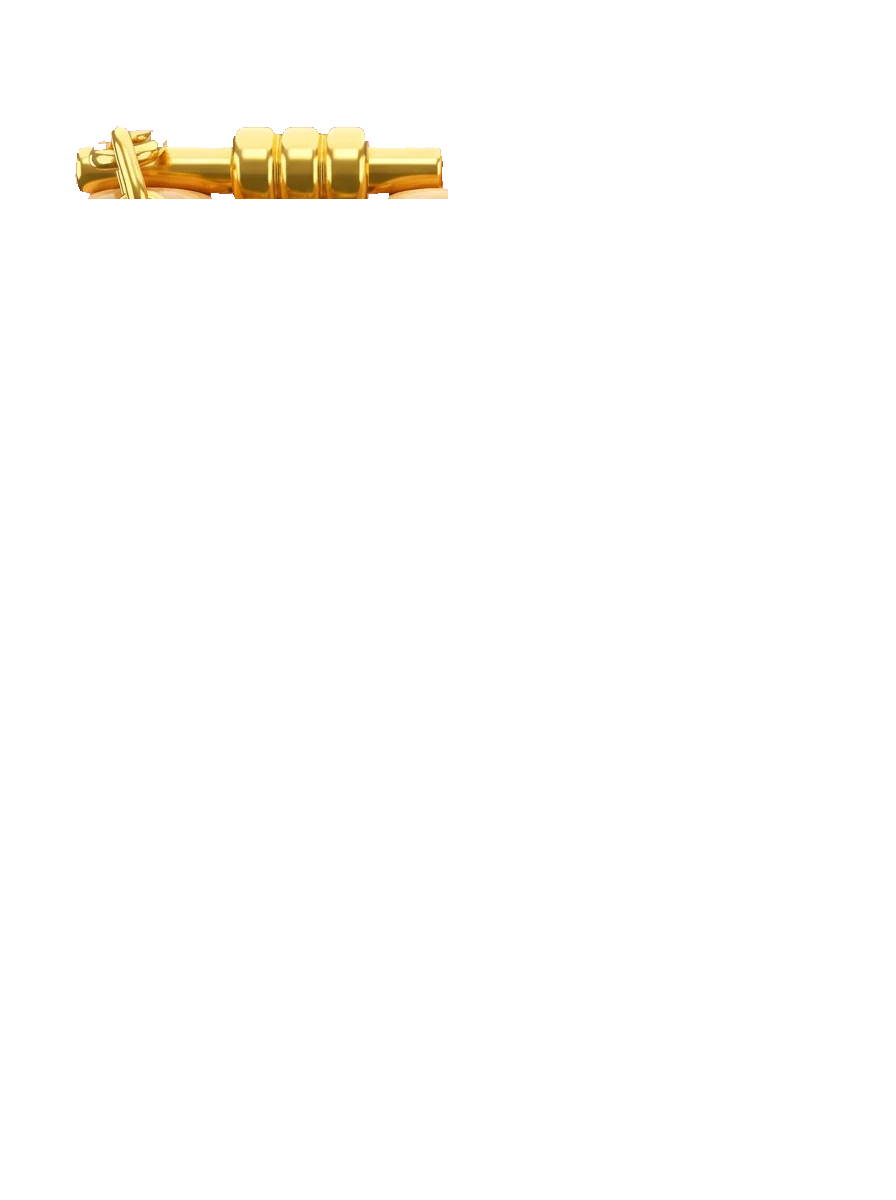
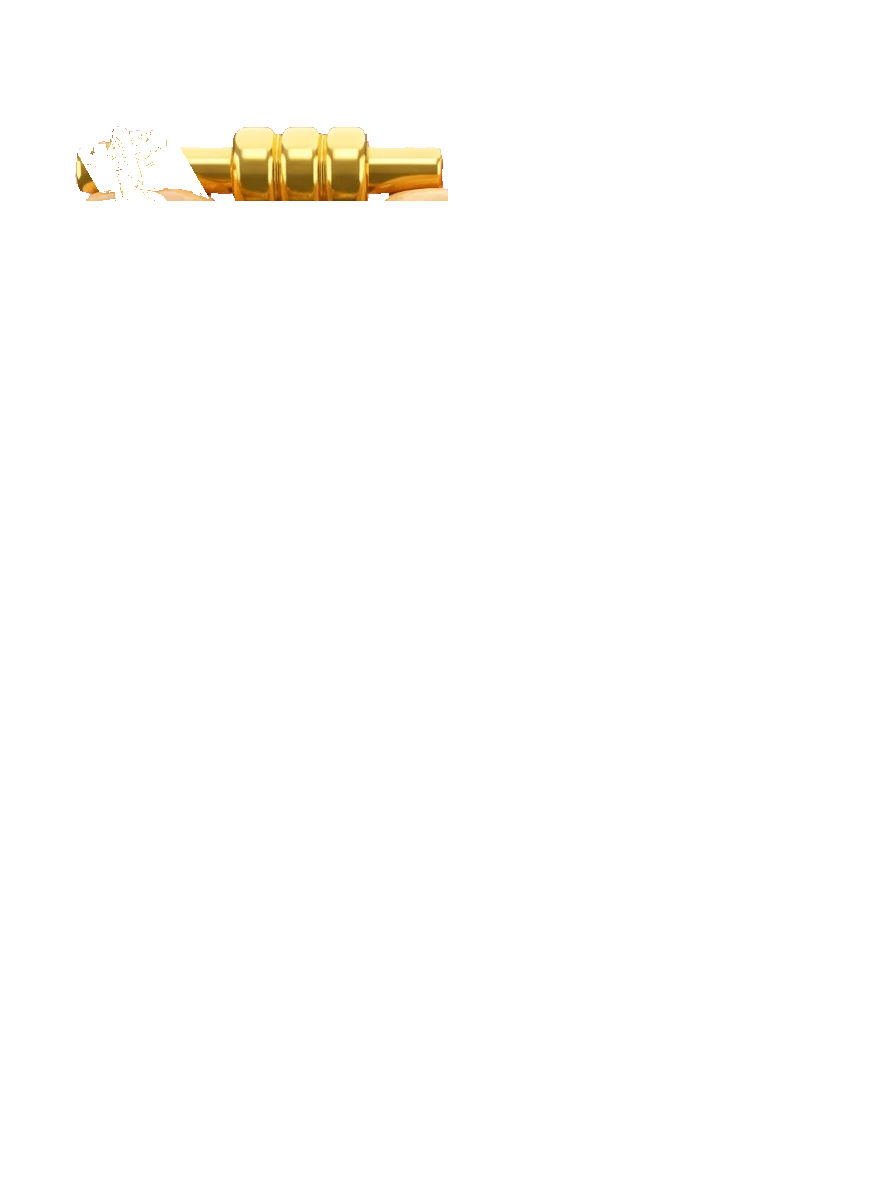
2.2: chain and padlock move and fall as one piece; chain rebuilt whole; bigger white ball
Claude-Session: https://claude.ai/code/session_01EnXvJ6P6HcGRxjBSnYPdAU

Changed region(s): [[0.0938, 0.0925, 0.25, 0.185]]

diff --git a/www/assets/v22.js b/www/assets/v22.js
@@ -373,6 +373,15 @@
   @keyframes pbSwing{15%{transform:rotate(8deg)}35%{transform:rotate(-6deg)}55%{transform:rotate(3deg)}75%{transform:rotate(-1deg)}100%{transform:rotate(0)}}
   .lockx.st.shake img.padb{animation:pbJig .5s!important}@keyframes pbJig{20%{transform:translateY(3%) rotate(-7deg)}45%{transform:translateY(-1%) rotate(6deg)}70%{transform:rotate(-2deg)}}
   .lockx.st.open img.padb{animation:lkDrop .9s .42s cubic-bezier(.5,0,.8,.6) forwards!important}
+  .tcard .lockx.st .chn{position:absolute;inset:0;transform-origin:50% 12%;animation:lkSway 3.4s ease-in-out infinite}
+  .tcard .lockx.st .chn img{animation:none!important}
+  #v2deck .tcard.land .lockx.st .chn{animation:lkSwing 1.5s ease-out,lkSway 3.4s ease-in-out 1.5s infinite}
+  .lockx.st.shake .chn{animation:lkJig .5s!important}
+  .tcard.pt.locked .lockx.st.open .chn,.lockx.st.open .chn{animation:chDrop .9s .42s cubic-bezier(.5,0,.8,.6) forwards!important}
+  @keyframes chDrop{25%{transform:translateY(-3%) rotate(-6deg)}100%{transform:translateY(60%) rotate(18deg);opacity:0}}
+  .tcard.pt.locked .lockx.st.open .bail_l{animation:blOff .9s .42s cubic-bezier(.2,.6,.4,1) forwards!important}.tcard.pt.locked .lockx.st.open .bail_r{animation:brOff .9s .42s cubic-bezier(.2,.6,.4,1) forwards!important}
+  .tcard .lockx.st .ball,.tcard.pt.locked .lockx.st .ball{width:24%!important;left:38%!important;top:40%!important;background:radial-gradient(circle at 35% 30%,#fff,#f1efe6 45%,#b9b4a6)!important;box-shadow:0 3px 6px rgba(0,0,0,.35)}
+  .tcard .lockx.st .ball::after{border-left-color:rgba(60,60,70,.55)!important}
   @media (max-height:760px){.tcard.pt{padding-bottom:20px}.tcard.pt .ban.bimg{width:60%}#v2deck .v2rail{padding-top:52px!important}.tcard.pt .rib{display:none}.tcard.pt .v2tgt{font-size:12px}.tcard.pt .v2prz .row img{height:24px}#v2deck .v2rail{padding-top:6px}.tcard.pt .crest{margin-top:-16px}.tcard.pt .v2road{display:none}.tcard{gap:6px}.tcard .hero{height:104px}.tcard .crest{margin-top:-50px}.tcard .v2road{padding:3px 8px}.tcard .v2road .tx small{display:none}.tcard .v2face{width:34px;height:34px}.v2prz h5{margin:0 0 2px}.v2prz .row img{height:26px}.v2go{height:46px;font-size:20px}.tcard .crest .cup{height:72px}.mcard .post{display:none}.mcard .ico{height:64px}.mcard h4{font-size:28px}.v2rail{padding-top:48px}}`;
   document.head.appendChild(css);
 
@@ -424,7 +433,7 @@
 
 
   const LK = n => `<img class="${n}" src="assets/ui/lock/${n}.webp" alt="">`;
-  const lockStumps = () => `<div class="lockx st"><div class="stk">${LK('stump_l')}${LK('stump_r')}${LK('stump_m')}${LK('bail_l')}${LK('bail_r')}${LK('lock')}<img class="padb" src="assets/ui/lock/padbody.webp" alt=""><i class="ball"></i><i class="ext"></i></div></div>`;
+  const lockStumps = () => `<div class="lockx st"><div class="stk">${LK('stump_l')}${LK('stump_r')}${LK('stump_m')}${LK('bail_l')}${LK('bail_r')}<div class="chn">${LK('lock')}<img class="padb" src="assets/ui/lock/padbody.webp" alt=""></div><i class="ball"></i><i class="ext"></i></div></div>`;
   function unlockFx(card, done) {
     if (!card) return done && done();
     let lx = card.querySelector('.lockx.st'); if (!lx) { card.insertAdjacentHTML('beforeend', lockStumps()); lx = card.querySelector('.lockx.st'); card.classList.add('unlocking'); }
